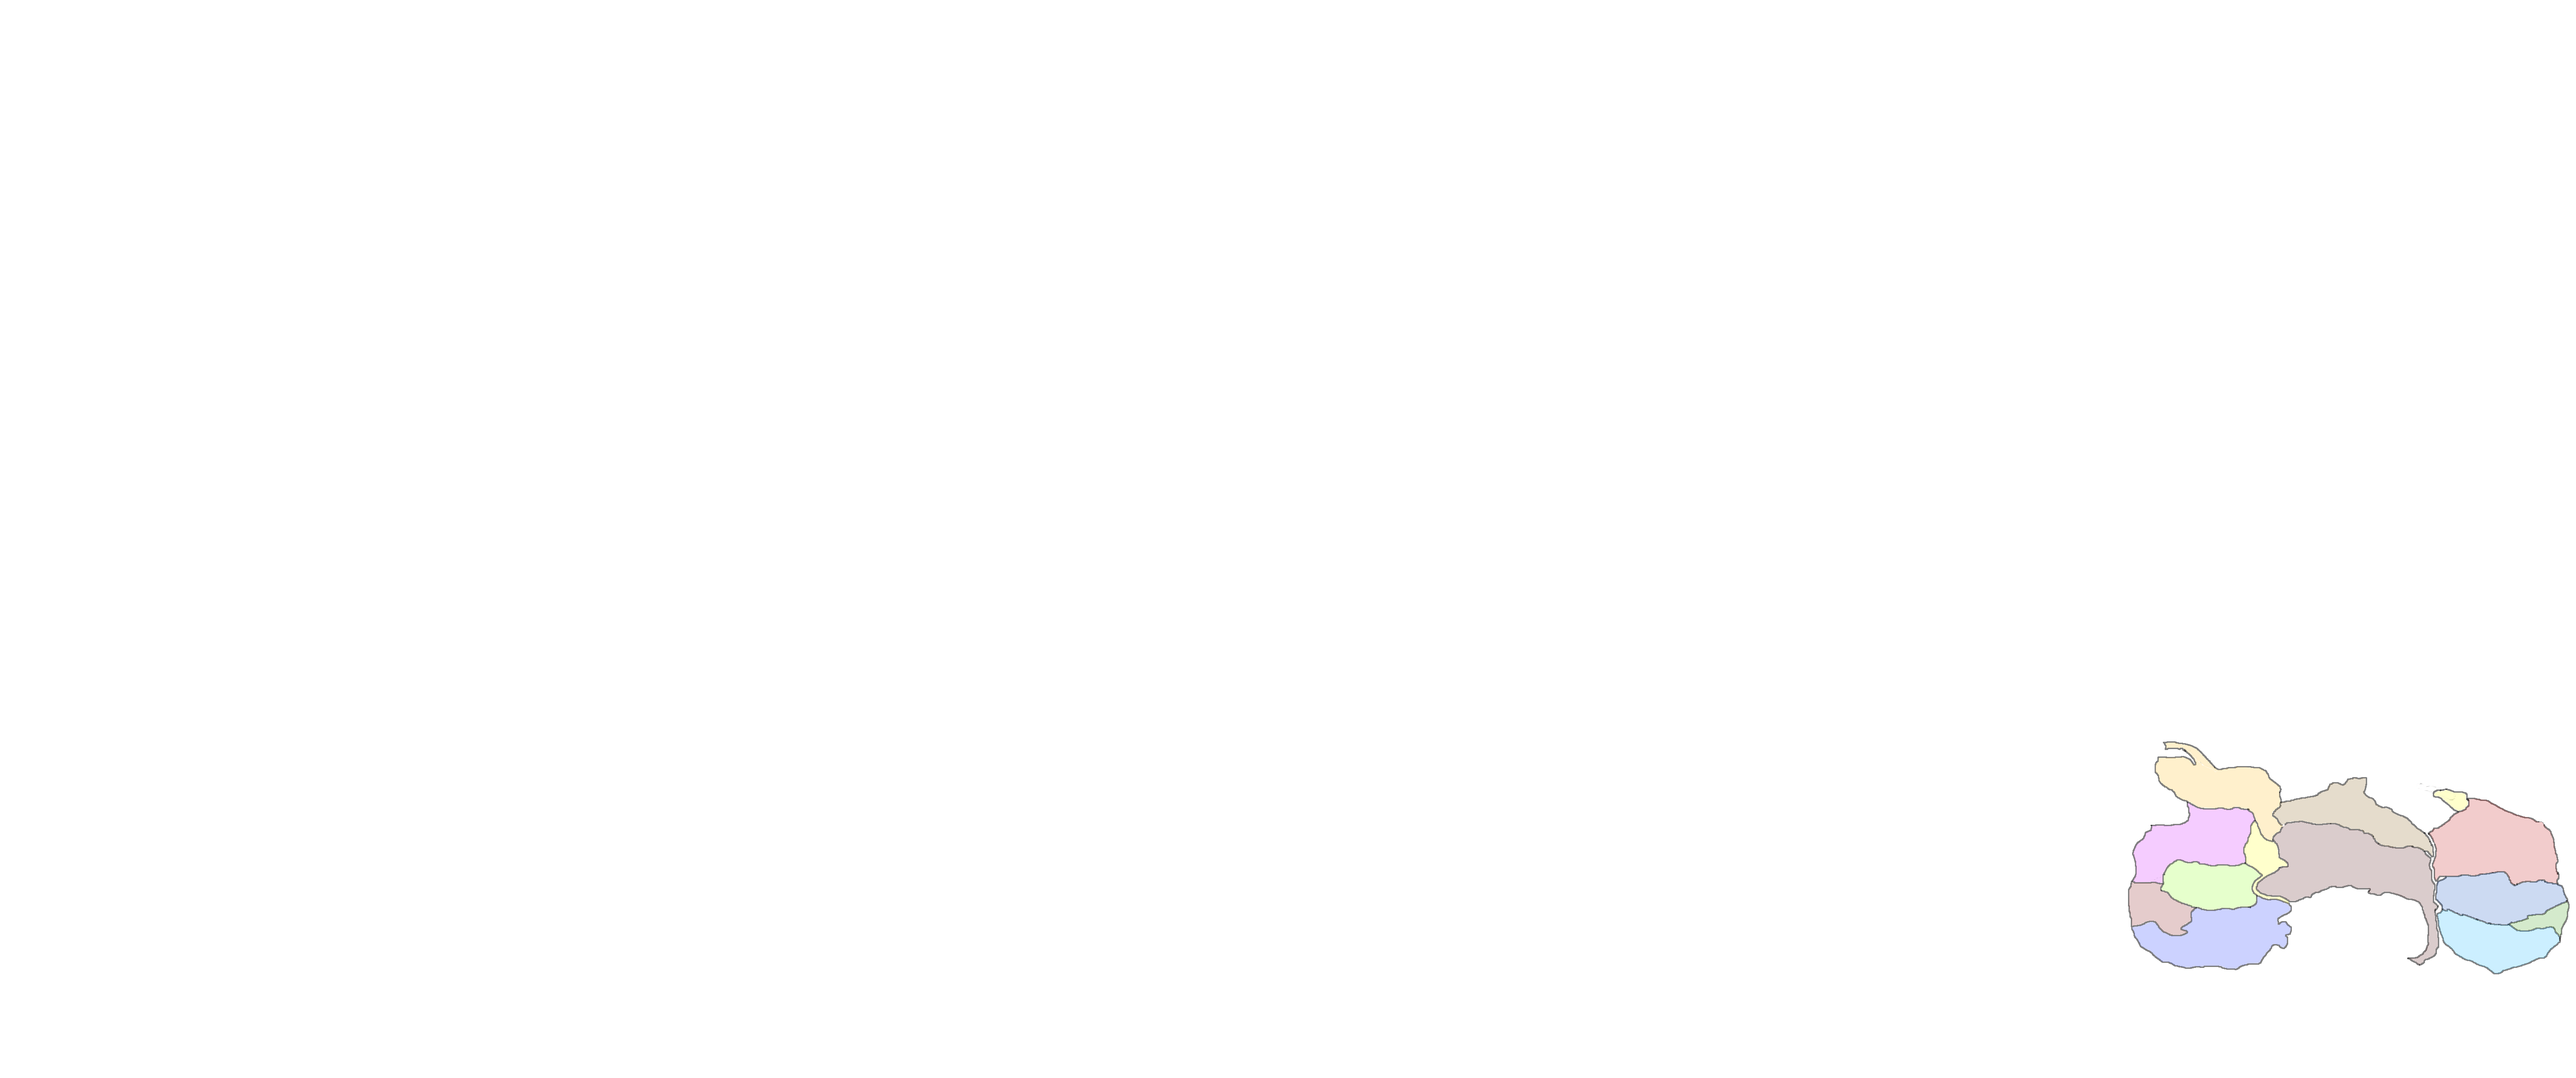
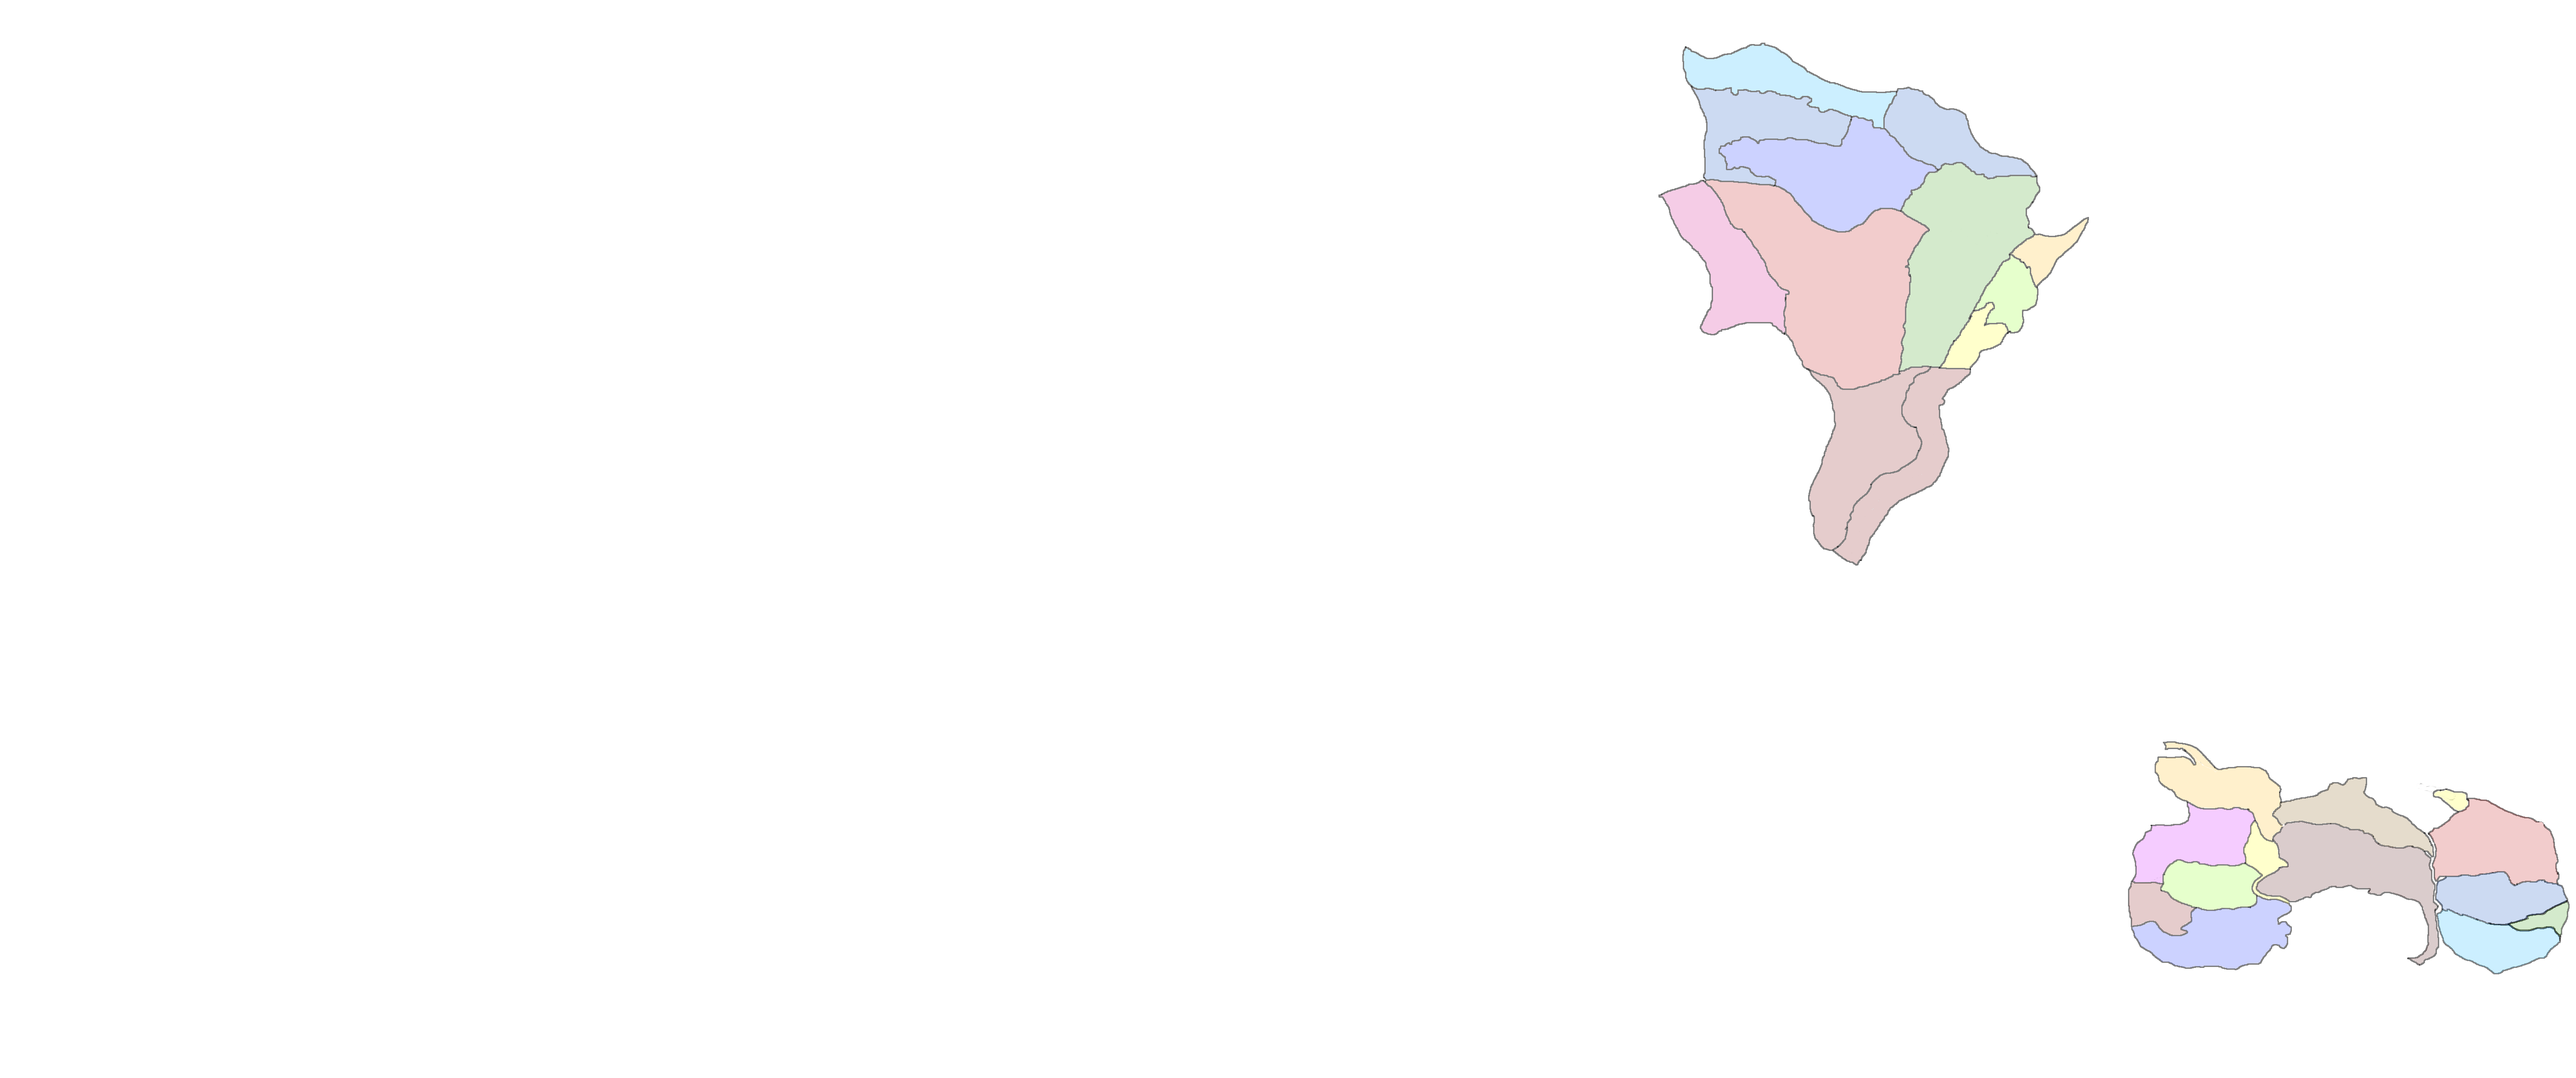
adicionando as marcações territoriais e superlegendas para SagMátim.

Changed region(s): [[0.6237, 0.0311, 0.8108, 0.5281]]

diff --git a/js/map.js b/js/map.js
@@ -2,6 +2,7 @@ var overlayMap;
 var overlayTer;
 
 var terVisible = false;
+var legVisible = false;
 
 var marker;
 var Map;
@@ -154,6 +155,16 @@ function initMap() {
             terVisible = false;
         }
     });
+    
+    document.getElementById('legendas').addEventListener('click', function () {
+        if(!legVisible){
+            $('#map-legendas').css('visibility', 'visible');
+            legVisible = true;
+        } else {
+            $('#map-legendas').css('visibility', 'hidden');
+            legVisible = false;
+        }
+    });
 
     Map.addListener('click', function(e) {
         //console.log('lat: ' + e.latLng.lat().toFixed(3) + ', lng: ' + e.latLng.lng().toFixed(3));
@@ -240,6 +251,15 @@ USGSOverlay.prototype.onAdd = function () {
     imgTer.style.visibility = 'hidden';
     imgTer.id = 'map-territorios';
     div.appendChild(imgTer);
+
+    var imgLeg = document.createElement('img');
+    imgLeg.src = 'img/AsLegendasConhecidas.png';
+    imgLeg.style.width = '100%';
+    imgLeg.style.height = '100%';
+    imgLeg.style.position = 'absolute';
+    imgLeg.style.visibility = 'hidden';
+    imgLeg.id = 'map-legendas';
+    div.appendChild(imgLeg);
 
     this.div_ = div;
 

diff --git a/O_Mundo_Conhecido.html b/O_Mundo_Conhecido.html
@@ -77,6 +77,7 @@
     <div class="group-control">
         <div class="btn-control" id="refresh" title="Reiniciar"><i class="fa fa-refresh"></i><!--&nbsp;<span>Reiniciar</span>--></div>
         <div class="btn-control" id="territorios" title="Territórios"><i class="fa fa-map"></i><!--&nbsp;<span>Territórios</span>--></div>
+        <div class="btn-control" id="legendas" title="Legendas"><i class="fa fa-font"></i><!--&nbsp;<span>Legendas</span>--></div>
     </div>
     <div class="footer-controls">
         <div class="float-left">
@@ -85,7 +86,7 @@
                 <input class="col-md-8 col-sm-8" id="distancia" />
             </div>
             <div class="panel-control last col-md-8 col-sm-8 draggable">
-                <h5 class="col-md-4 col-sm-4 context-control">Tempo de Viagem</h5>
+                <h5 class="col-md-4 col-sm-4 context-control" title="Estimativa (desconsiderando tipo do terreno)">Tempo de Viagem</h5>
                 <select id="modo" class="form-component" onchange="calcTime()" title="- Selecione -">
                     <option value="0" selected>- Selecione -</option>
                     <option value="4.17">Passos Curtos</option><!-- desc -->

diff --git a/css/style.css b/css/style.css
@@ -89,7 +89,7 @@ html, body {
     width: 167px;
 }
 
-#territorios {
+#territorios, #legendas {
     margin-top: 10px;
 }
 
